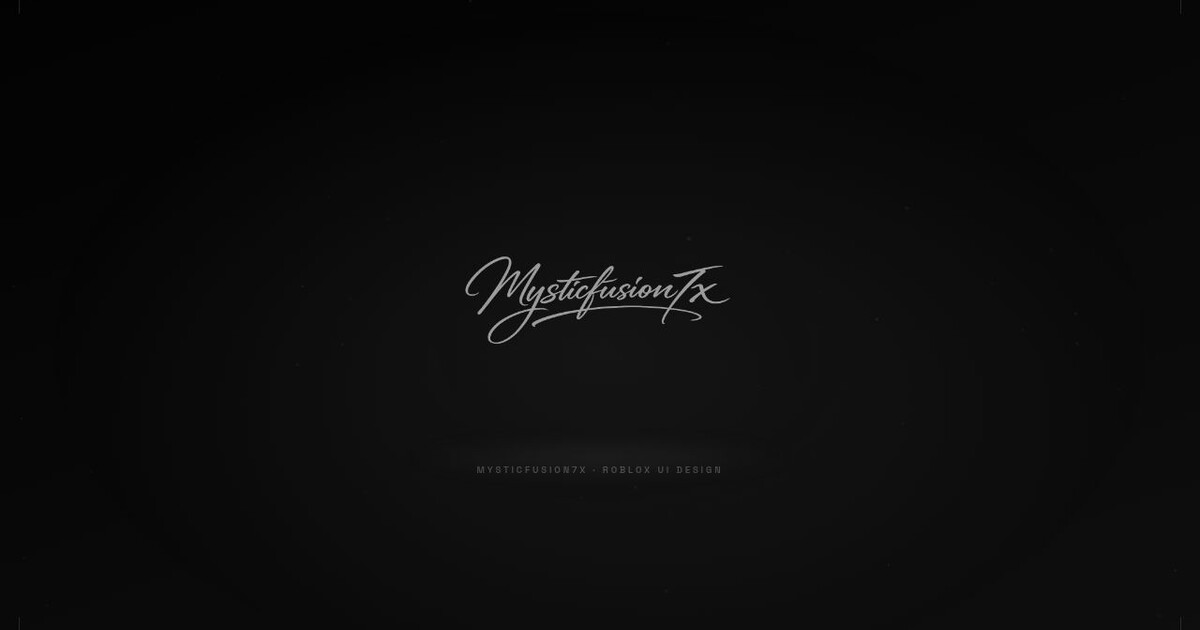
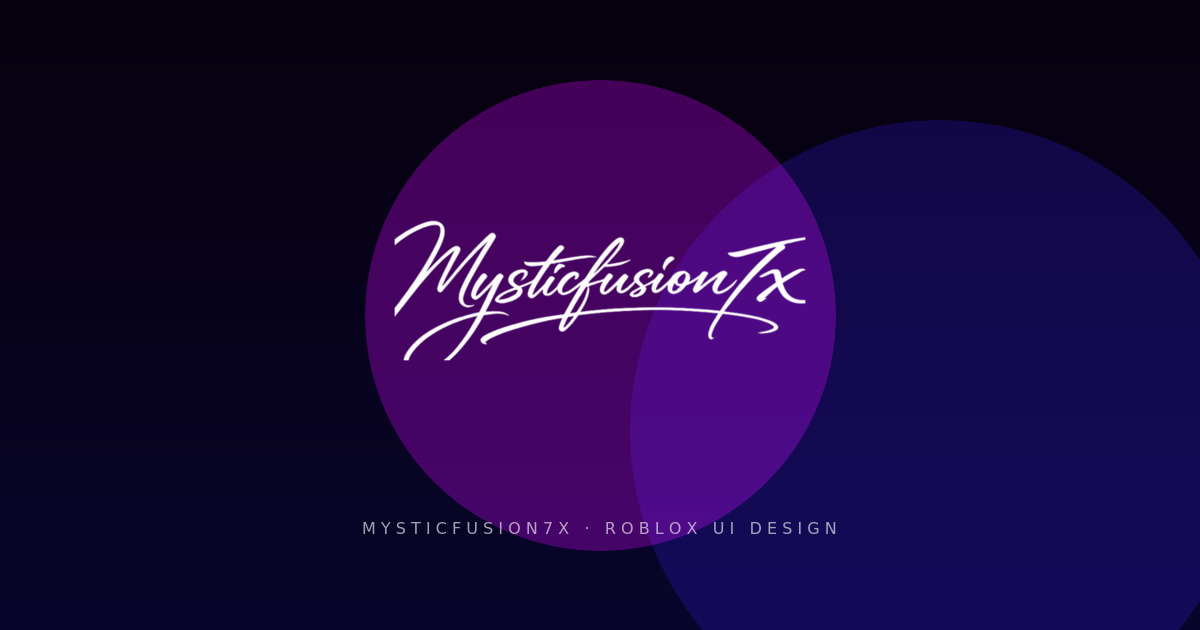
Update portfolio index, loading screen, and social media image
Replit-Commit-Author: Agent

diff --git a/artifacts/portfolio/index.html b/artifacts/portfolio/index.html
@@ -12,11 +12,13 @@
     <meta property="og:image" content="/og-image.jpg" />
     <meta property="og:image:width" content="1200" />
     <meta property="og:image:height" content="630" />
+    <meta property="og:image:alt" content="MYSTICFUSION7X purple Novara-style Roblox UI design portfolio" />
     <meta name="twitter:card" content="summary_large_image" />
     <meta name="twitter:title" content="MYSTICFUSION7X — Roblox UI Designer" />
     <meta name="twitter:description" content="Interfaces that make your game unforgettable. Polished, production-ready Roblox UI design." />
     <meta name="twitter:image" content="/og-image.jpg" />
-    <meta name="theme-color" content="#050505" />
+    <meta name="twitter:image:alt" content="MYSTICFUSION7X purple Novara-style Roblox UI design portfolio" />
+    <meta name="theme-color" content="#0b0120" />
     <link rel="icon" type="image/svg+xml" href="/favicon.svg" />
   </head>
   <body class="bg-background text-foreground antialiased selection:bg-primary/30 selection:text-primary">

diff --git a/artifacts/portfolio/src/components/LoadingScreen.tsx b/artifacts/portfolio/src/components/LoadingScreen.tsx
@@ -523,7 +523,8 @@ export function LoadingScreen({ onDone }: { onDone: () => void }) {
                   alt="MYSTICFUSION7X"
                   style={{
                     width: "min(480px, 72vw)", height: "auto",
-                    filter: theme.filterStyle,
+                    filter: "invert(1) brightness(1.12) contrast(1.06) drop-shadow(0 0 16px rgba(255,255,255,0.24))",
+                    opacity: 0.96,
                     userSelect: "none", pointerEvents: "none", display: "block",
                   }}
                   draggable={false}
